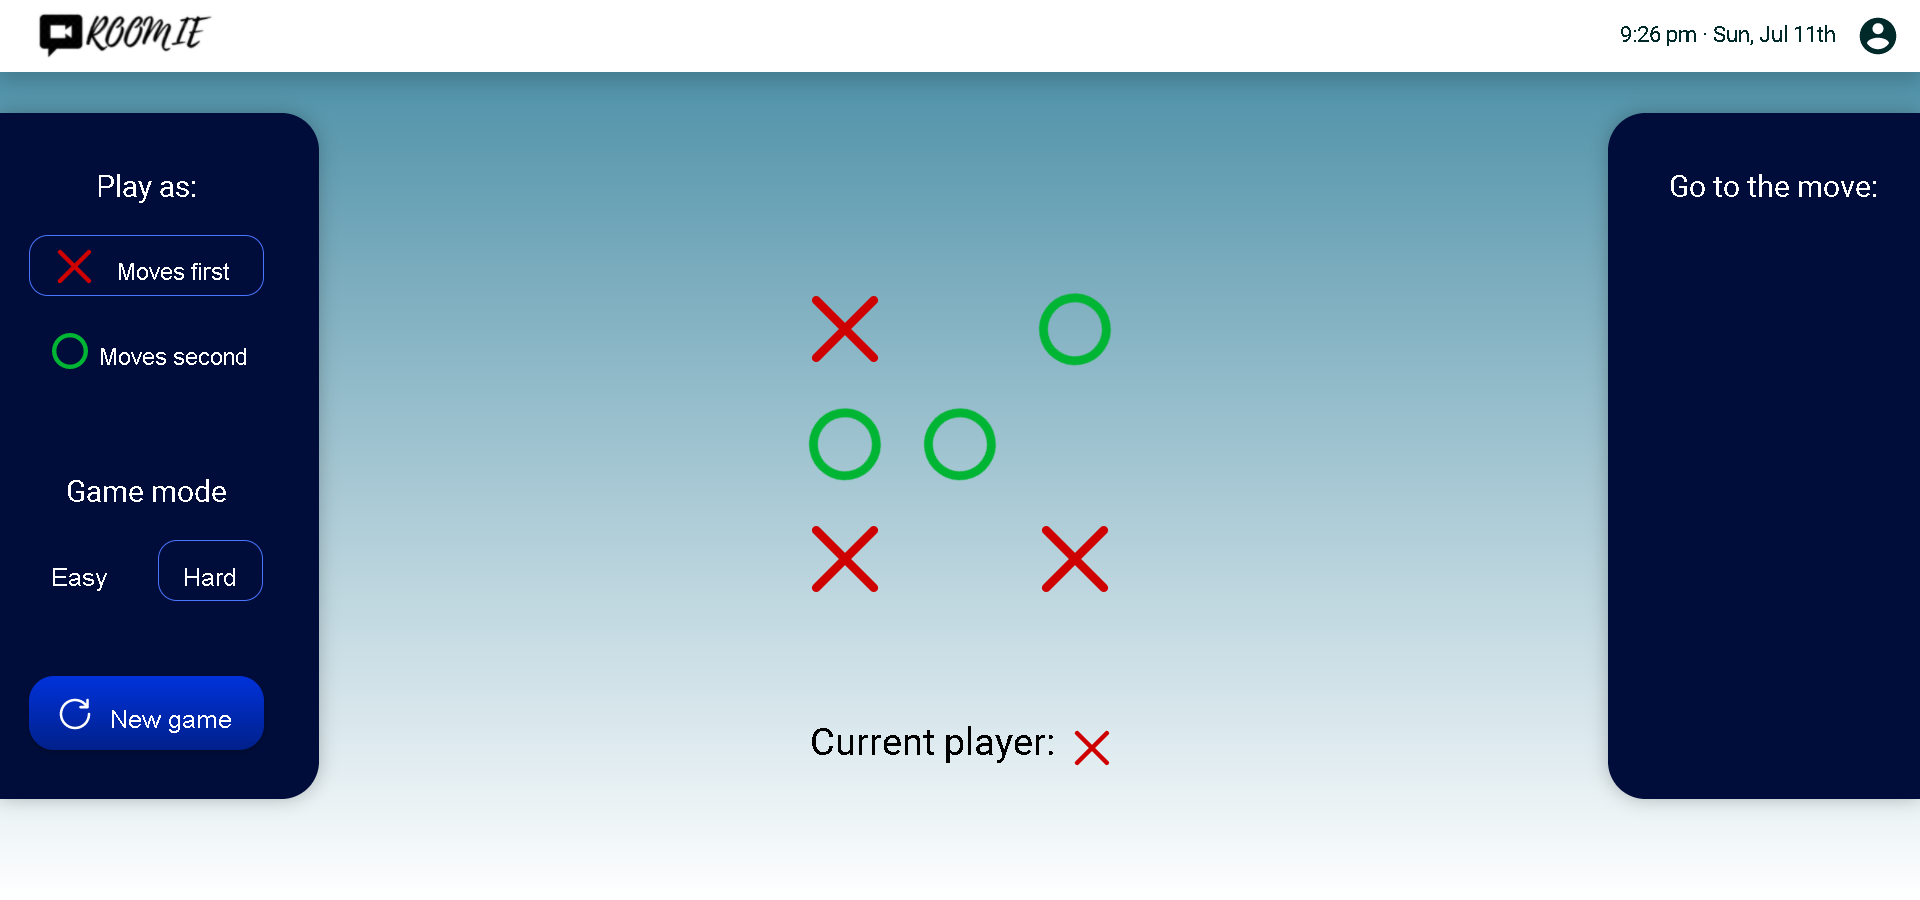
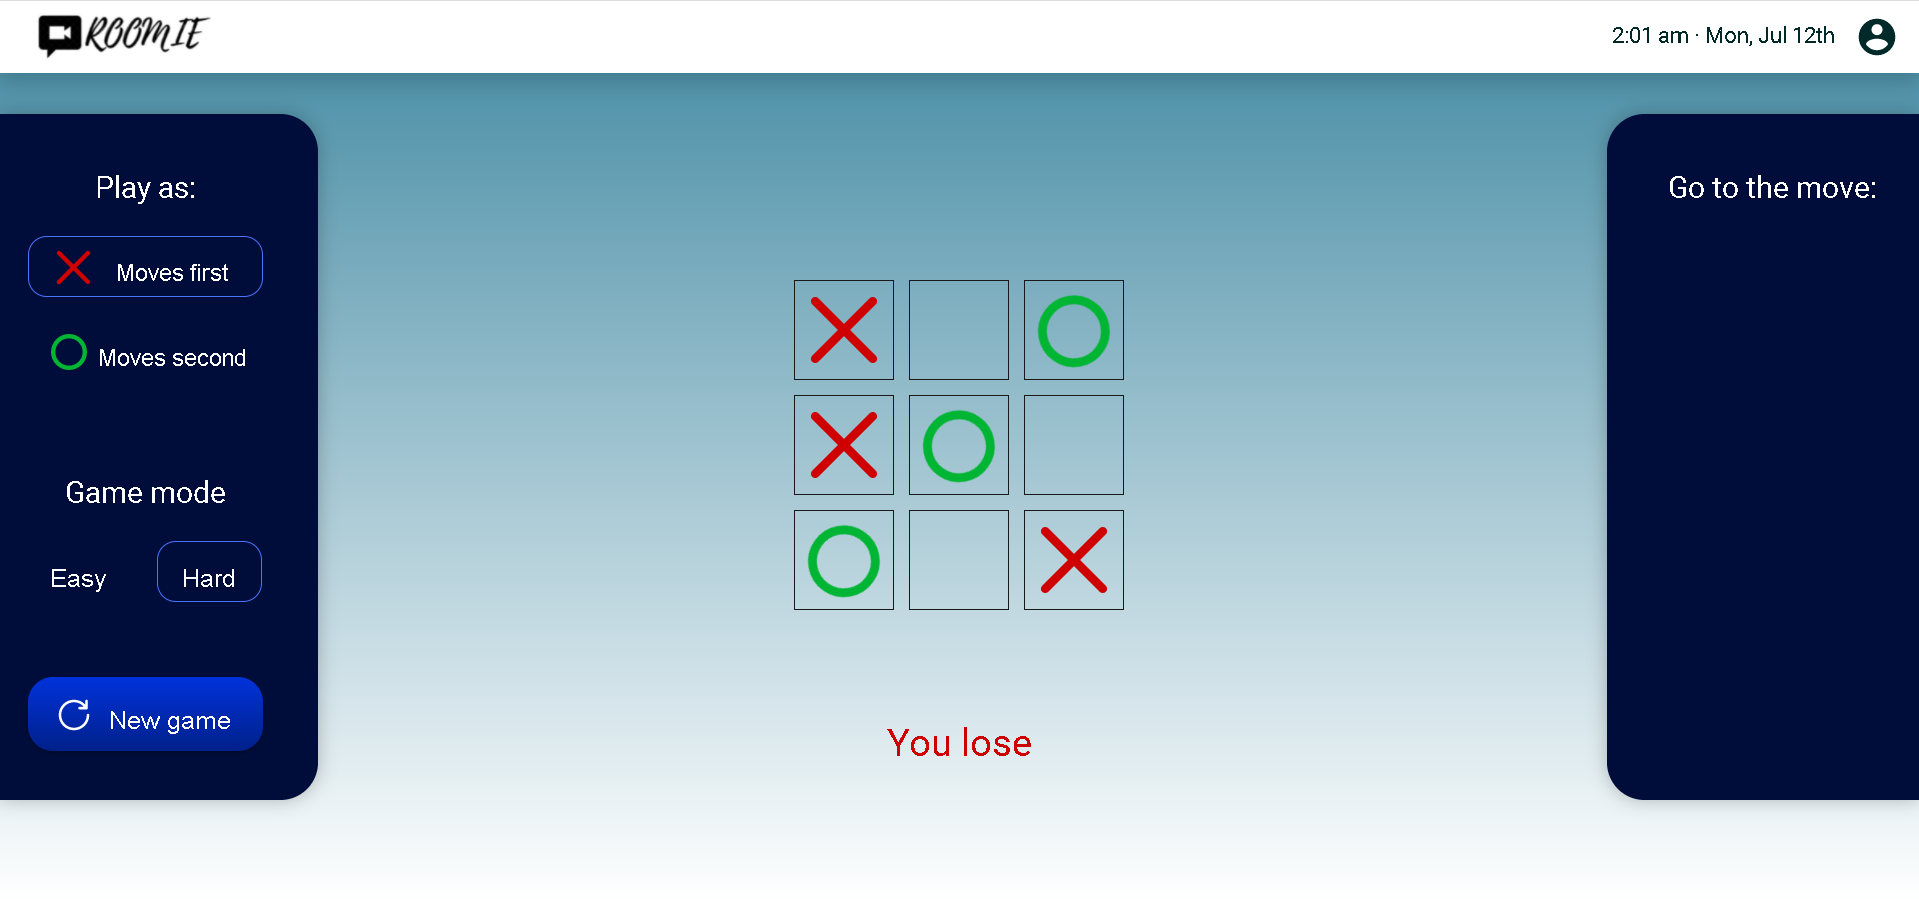
modified

diff --git a/client/src/components/Signup.js b/client/src/components/Signup.js
@@ -60,7 +60,12 @@ export default function Signup() {
                 </Form.Group>
                 <Form.Group id="password">
                   <Form.Label>Password</Form.Label>
-                  <Form.Control type="password" ref={passwordRef} required />
+                  <Form.Control
+                    type="password"
+                    ref={passwordRef}
+                    placeholder="must be 6 characters or more"
+                    required
+                  />
                 </Form.Group>
                 <Form.Group id="password-confirm">
                   <Form.Label>Password Confirmation</Form.Label>
@@ -80,7 +85,11 @@ export default function Signup() {
                 </Button>
               </Form>
               <div className="w-100 text-center mt-2">
-                Already Have An Account? <Link to="/login" className="text-info"> Log In</Link>
+                Already Have An Account?{" "}
+                <Link to="/login" className="text-info">
+                  {" "}
+                  Log In
+                </Link>
               </div>
             </Card.Body>
           </Card>

diff --git a/client/src/Styling/Tictactoe.css b/client/src/Styling/Tictactoe.css
@@ -70,6 +70,9 @@ ul {
   text-align: center;
   width: 80px;
   color: white;
+  border: 0.1vw solid #191919;
+  float: left;
+  font-weight: bold;
 }
 
 .square:focus {
